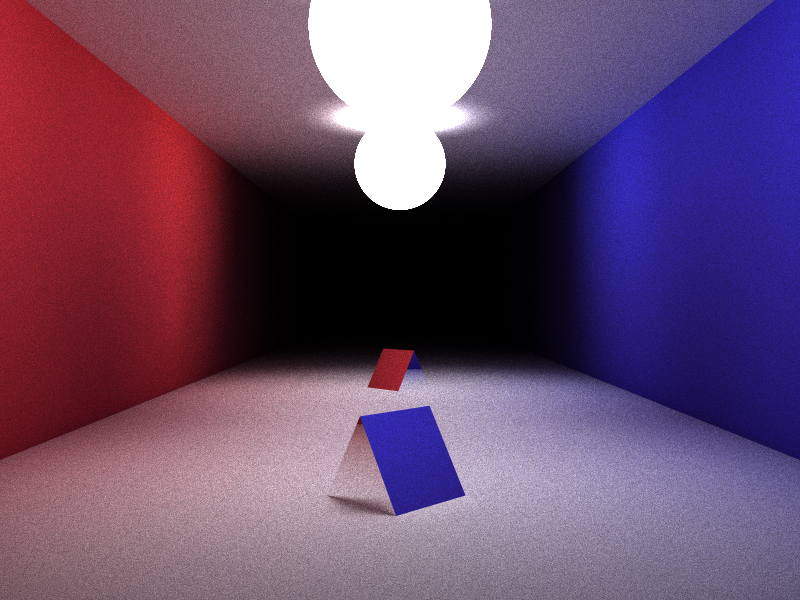
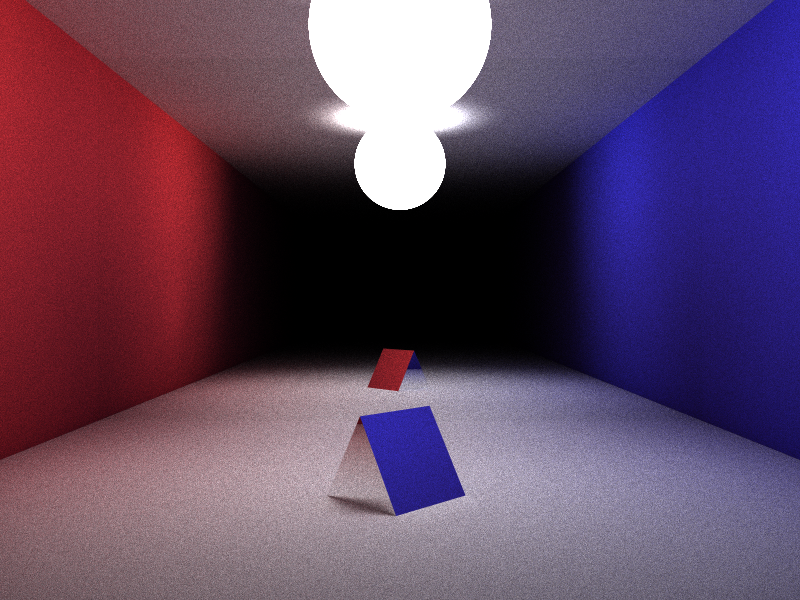
Reducing depth from 25 to 10

Changed region(s): [[0.2188, 0.09, 0.4062, 0.15], [0.5938, 0.09, 0.75, 0.15], [0.5, 0.63, 0.5312, 0.66]]

diff --git a/examples/glass-prism.rs b/examples/glass-prism.rs
@@ -42,7 +42,7 @@ fn main() -> Result<(), image::error::ImageError> {
     scene.add_object(Plane::facing_neg_y().shifted_back(4.0), white_lam); // TOP
     scene.add_object(Plane::facing_pos_z().shifted_back(7.0), violet_lam); // FRONT
 
-    render::<PathTracer, f32, XorShiftRng>(scene, camera, 50, 1000).save("glass-prism.png")?;
+    render::<PathTracer, f32, XorShiftRng>(scene, camera, 10, 1000).save("glass-prism.png")?;
 
     Ok(())
 }

diff --git a/examples/mirror-prism.rs b/examples/mirror-prism.rs
@@ -44,7 +44,7 @@ fn main() -> Result<(), image::error::ImageError> {
     scene.add_object(Plane::facing_neg_y().shifted_back(4.0), white_lam); // TOP
     scene.add_object(Plane::facing_pos_z().shifted_back(7.0), mirror); // FRONT
 
-    render::<PathTracer, f32, XorShiftRng>(scene, camera, 50, 1000).save("mirror-prism.png")?;
+    render::<PathTracer, f32, XorShiftRng>(scene, camera, 10, 1000).save("mirror-prism.png")?;
 
     Ok(())
 }

diff --git a/examples/spheres.rs b/examples/spheres.rs
@@ -48,7 +48,7 @@ fn main() -> Result<(), image::error::ImageError> {
     scene.add_object(Plane::facing_pos_z().shifted_back(7.0), white_lam); // FRONT
     scene.add_object(Plane::facing_neg_z().shifted_back(7.0), white_lam); // BACK
 
-    render::<PathTracer, f32, XorShiftRng>(scene, camera, 50, 1000).save("spheres.png")?;
+    render::<PathTracer, f32, XorShiftRng>(scene, camera, 10, 1000).save("spheres.png")?;
 
     Ok(())
 }
